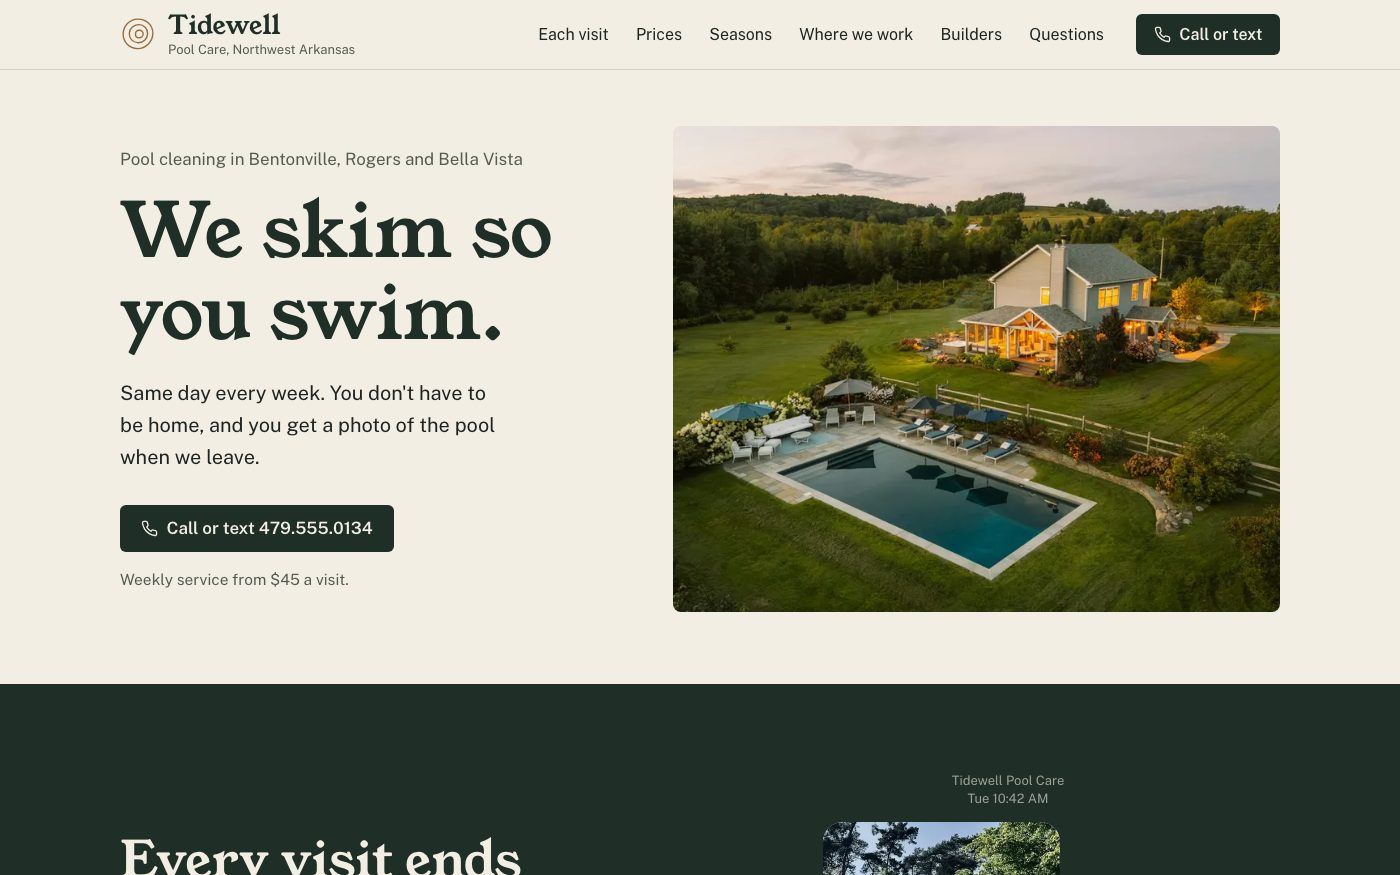
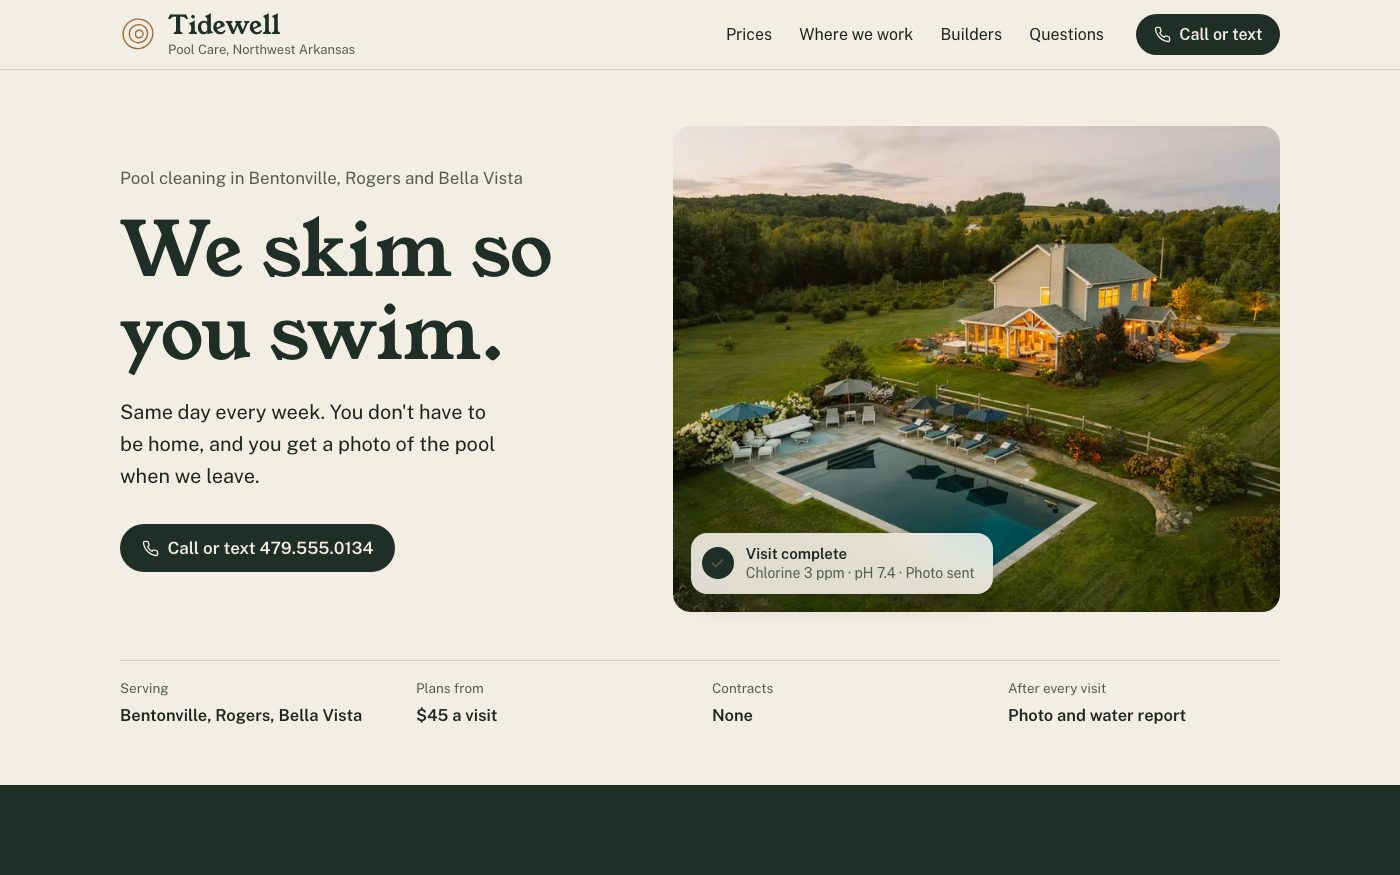
Tidewell demo refinements: facts row and status cards on photos, pill buttons, rounder corners, four nav links, shorter lists and seasons, one-line add-ons and towns; refresh thumbnail

diff --git a/demo/tidewell/index.html b/demo/tidewell/index.html
@@ -28,6 +28,7 @@
   --lake:#2D5E6A;
   --lake-soft:#9DBCC2;
   --line:rgba(30,36,31,.16);
+  --r:18px;
   --serif:'Young Serif',Georgia,'Times New Roman',serif;
   --sans:'Public Sans','Helvetica Neue',Arial,sans-serif;
 }
@@ -48,7 +49,7 @@ p,li,dd,td{text-wrap:pretty}
 
 .btn{
   display:inline-flex; align-items:center; justify-content:center; gap:.55rem;
-  padding:.85rem 1.3rem; border-radius:6px; background:var(--forest); color:var(--limestone);
+  padding:.85rem 1.35rem; border-radius:999px; background:var(--forest); color:var(--limestone);
   font-family:var(--sans); font-weight:600; font-size:17px; line-height:1.2; text-decoration:none;
   transition:background .2s ease;
 }
@@ -67,7 +68,7 @@ nav.main{display:flex; gap:1.7rem}
 nav.main a{font-size:16px; text-decoration:none; color:var(--ink); padding:.3rem 0}
 nav.main a:hover{text-decoration:underline; text-underline-offset:5px; text-decoration-color:var(--lake)}
 .bar .btn{padding:.7rem 1.1rem; font-size:16px}
-.navtoggle{display:none; width:46px; height:46px; padding:0; background:transparent; border:1px solid var(--line); border-radius:6px; cursor:pointer; flex:none; flex-direction:column; align-items:center; justify-content:center; gap:5px}
+.navtoggle{display:none; width:46px; height:46px; padding:0; background:transparent; border:1px solid var(--line); border-radius:999px; cursor:pointer; flex:none; flex-direction:column; align-items:center; justify-content:center; gap:5px}
 .navtoggle span{display:block; width:20px; height:2px; background:var(--forest); transition:transform .2s ease, opacity .2s ease}
 .navtoggle[aria-expanded="true"] span:nth-child(1){transform:translateY(7px) rotate(45deg)}
 .navtoggle[aria-expanded="true"] span:nth-child(2){opacity:0}
@@ -87,7 +88,7 @@ nav.main a:hover{text-decoration:underline; text-underline-offset:5px; text-deco
 .hero-cta{margin-top:2rem; display:flex; flex-wrap:wrap; align-items:center; gap:.9rem 1.4rem}
 .hero-cta small{font-size:15.5px; color:var(--muted)}
 .hero-photo{margin:0}
-.hero-photo img{width:100%; aspect-ratio:5/4; object-fit:cover; object-position:58% 62%; border-radius:8px}
+.hero-photo img{width:100%; aspect-ratio:5/4; object-fit:cover; object-position:58% 62%; border-radius:var(--r)}
 
 /* ---------- visit report ---------- */
 .visit{background:var(--forest); color:var(--limestone); padding:5.5rem 0}
@@ -109,7 +110,7 @@ nav.main a:hover{text-decoration:underline; text-underline-offset:5px; text-deco
 .prices-head{display:grid; grid-template-columns:1fr 1fr; gap:3rem; align-items:end; margin-bottom:2.5rem}
 .prices h2{font-size:clamp(2.2rem,4vw,3.2rem); color:var(--forest)}
 .prices-head p{color:var(--muted); max-width:44ch}
-.ratecard{background:var(--paper); border:1px solid var(--line); border-radius:8px; padding:.5rem 2rem 2rem}
+.ratecard{background:var(--paper); border:1px solid var(--line); border-radius:var(--r); padding:.5rem 2rem 2rem}
 .rates{width:100%; border-collapse:collapse}
 .rates th,.rates td{text-align:left; padding:1.15rem 1rem 1.15rem 0; border-bottom:1px solid var(--line); vertical-align:baseline}
 .rates thead th{font-size:14px; font-weight:600; color:var(--muted); padding-top:1.2rem; padding-bottom:.7rem}
@@ -128,7 +129,7 @@ nav.main a:hover{text-decoration:underline; text-underline-offset:5px; text-deco
 .year-grid{display:grid; grid-template-columns:.85fr 1.15fr; gap:4.5rem; align-items:start}
 .year h2{font-size:clamp(2.2rem,4vw,3.2rem); color:var(--forest); margin-bottom:1.1rem}
 .year figure{margin:2rem 0 0}
-.year figure img{width:100%; aspect-ratio:4/3; object-fit:cover; border-radius:8px}
+.year figure img{width:100%; aspect-ratio:4/3; object-fit:cover; border-radius:var(--r)}
 .year figcaption{font-size:15px; color:var(--muted); margin-top:.6rem}
 .seasons{list-style:none; margin:0; padding:0}
 .seasons li{display:grid; grid-template-columns:9.5rem 1fr; gap:1.5rem; padding:1.6rem 0; border-top:1px solid var(--line)}
@@ -140,7 +141,7 @@ nav.main a:hover{text-decoration:underline; text-underline-offset:5px; text-deco
 /* ---------- area ---------- */
 .area{padding:6rem 0}
 .area-grid{display:grid; grid-template-columns:1.05fr .95fr; gap:4.5rem; align-items:center}
-.map{background:var(--paper); border:1px solid var(--line); border-radius:8px; padding:1rem}
+.map{background:var(--paper); border:1px solid var(--line); border-radius:var(--r); padding:1rem}
 .map svg{display:block; width:100%; height:auto}
 .map text{font-family:var(--sans); paint-order:stroke; stroke:var(--paper); stroke-width:4px; stroke-linejoin:round}
 .area h2{font-size:clamp(2.2rem,4vw,3.2rem); color:var(--forest); margin-bottom:1.1rem}
@@ -151,7 +152,7 @@ nav.main a:hover{text-decoration:underline; text-underline-offset:5px; text-deco
 /* ---------- builders ---------- */
 .builders{background:var(--paper); border-block:1px solid var(--line); padding:6rem 0}
 .builders-grid{display:grid; grid-template-columns:1fr 1fr; gap:4.5rem; align-items:center}
-.builders img{width:100%; aspect-ratio:4/3; object-fit:cover; object-position:58% center; border-radius:8px}
+.builders img{width:100%; aspect-ratio:4/3; object-fit:cover; object-position:58% center; border-radius:var(--r)}
 .builders h2{font-size:clamp(2.2rem,4vw,3.2rem); color:var(--forest); margin-bottom:1.1rem}
 .builders .intro{color:var(--muted); max-width:44ch}
 .offers{margin:1.8rem 0 2rem; padding:0}
@@ -228,6 +229,32 @@ footer{background:#172219; color:rgba(243,238,228,.7); padding:2.4rem 0; font-si
   .foot b{display:block; margin:0 0 .2rem}
 }
 @media(max-width:420px){.brand-sub{display:none}}
+
+/* ---------- refinements ---------- */
+.float-card{position:absolute; left:18px; bottom:18px; display:flex; align-items:center; gap:12px; max-width:calc(100% - 36px);
+  padding:11px 18px 11px 11px; border-radius:16px; background:rgba(251,248,242,.86); color:var(--ink);
+  -webkit-backdrop-filter:blur(14px) saturate(1.2); backdrop-filter:blur(14px) saturate(1.2);
+  box-shadow:0 12px 30px -14px rgba(22,32,26,.5); font-size:14px; line-height:1.35}
+.float-card b{display:block; font-weight:600; font-size:15px}
+.float-card span{color:var(--muted)}
+.fc-icon{flex:none; width:32px; height:32px; border-radius:50%; background:var(--forest); color:var(--limestone); display:grid; place-items:center}
+.fc-icon svg{width:15px; height:15px}
+.hero-photo,.builders-photo{position:relative; margin:0}
+.hero{padding-bottom:3.5rem}
+.facts{display:grid; grid-template-columns:repeat(4,minmax(0,1fr)); gap:1.5rem; margin:3rem 0 0; padding-top:1.1rem; border-top:1px solid var(--line)}
+.facts dt{font-size:13.5px; color:var(--muted)}
+.facts dd{margin:.15rem 0 0; font-size:16.5px; font-weight:600; color:var(--ink)}
+.extras-line{margin-top:1.5rem; font-size:15.5px; color:var(--muted)}
+.extras-line b{color:var(--ink); font-weight:600}
+.area .towns{margin-top:1.4rem; font-size:17px; line-height:1.8; columns:auto}
+.towns-extra{margin-top:.5rem; font-size:15px; color:var(--muted)}
+@media(max-width:1000px){.facts{grid-template-columns:repeat(2,minmax(0,1fr)); gap:1.1rem 1.5rem}}
+@media(max-width:700px){
+  .facts{margin-top:2.2rem}
+  .float-card{left:10px; right:10px; bottom:10px; max-width:none; padding:9px 12px 9px 9px; font-size:13px}
+  .float-card b{font-size:14px}
+  .hero-photo .float-card{top:10px; bottom:auto}
+}
 @media(prefers-reduced-motion:reduce){*,*::before,*::after{transition-duration:.001ms !important}}
 </style>
 </head>
@@ -237,6 +264,8 @@ footer{background:#172219; color:rgba(243,238,228,.7); padding:2.4rem 0; font-si
   <defs>
     <symbol id="i-phone" viewBox="0 0 24 24" fill="none" stroke="currentColor" stroke-width="1.9" stroke-linecap="round" stroke-linejoin="round"><path d="M22 16.9v3a2 2 0 0 1-2.2 2 19.8 19.8 0 0 1-8.6-3.1 19.5 19.5 0 0 1-6-6A19.8 19.8 0 0 1 2.1 4.2 2 2 0 0 1 4.1 2h3a2 2 0 0 1 2 1.7c.1 1 .4 1.9.7 2.8a2 2 0 0 1-.5 2.1L8.1 9.9a16 16 0 0 0 6 6l1.3-1.3a2 2 0 0 1 2.1-.4c.9.3 1.8.6 2.8.7a2 2 0 0 1 1.7 2z"/></symbol>
     <symbol id="i-mark" viewBox="0 0 40 40" fill="none" stroke="currentColor" stroke-width="1.5"><path d="M19.6 3.4c9.3-.3 17.1 6.8 16.9 16.1-.2 9.2-7.9 16.9-17.1 16.7C10.3 36 3.3 28.9 3.5 19.8 3.7 10.8 10.7 3.7 19.6 3.4z"/><path d="M20.6 9.6c5.9-.2 10.3 4.3 10.1 10-.2 5.8-5 10.3-10.8 10.1-5.6-.2-9.8-4.8-9.6-10.3.2-5.3 4.8-9.6 10.3-9.8z"/><path d="M21.4 15.8c2.6-.1 4.4 1.9 4.3 4.3-.1 2.4-2.1 4.2-4.6 4.1-2.3-.1-4-2-3.9-4.3.1-2.2 2-4 4.2-4.1z"/></symbol>
+    <symbol id="i-check" viewBox="0 0 24 24" fill="none" stroke="currentColor" stroke-width="2.6" stroke-linecap="round" stroke-linejoin="round"><polyline points="20 6 9 17 4 12"/></symbol>
+    <symbol id="i-drop" viewBox="0 0 24 24" fill="none" stroke="currentColor" stroke-width="2" stroke-linecap="round" stroke-linejoin="round"><path d="M12 3c3.5 4.4 6.5 7.9 6.5 11.4a6.5 6.5 0 0 1-13 0C5.5 10.9 8.5 7.4 12 3z"/></symbol>
   </defs>
 </svg>
 
@@ -244,9 +273,7 @@ footer{background:#172219; color:rgba(243,238,228,.7); padding:2.4rem 0; font-si
   <div class="wrap bar">
     <a class="brand" href="#top"><svg class="brand-logo" aria-hidden="true" focusable="false"><use href="#i-mark"/></svg><span class="brand-text"><b>Tidewell</b><span class="brand-sub">Pool Care, Northwest Arkansas</span></span></a>
     <nav class="main" aria-label="Main">
-      <a href="#visit">Each visit</a>
       <a href="#prices">Prices</a>
-      <a href="#year">Seasons</a>
       <a href="#area">Where we work</a>
       <a href="#builders">Builders</a>
       <a href="#faq">Questions</a>
@@ -256,9 +283,7 @@ footer{background:#172219; color:rgba(243,238,228,.7); padding:2.4rem 0; font-si
   </div>
   <nav class="mobile-nav" id="mobileNav" aria-label="Menu" hidden>
     <div class="wrap">
-      <a href="#visit">Each visit</a>
       <a href="#prices">Prices</a>
-      <a href="#year">Seasons</a>
       <a href="#area">Where we work</a>
       <a href="#builders">Builders</a>
       <a href="#faq">Questions</a>
@@ -276,12 +301,20 @@ footer{background:#172219; color:rgba(243,238,228,.7); padding:2.4rem 0; font-si
       <p class="hero-lede">Same day every week. You don't have to be home, and you get a photo of the pool when we&nbsp;leave.</p>
       <div class="hero-cta">
         <a class="btn" href="tel:+14795550134"><svg aria-hidden="true"><use href="#i-phone"/></svg>Call or text 479.555.0134</a>
-        <small>Weekly service from $45 a&nbsp;visit.</small>
       </div>
     </div>
     <figure class="hero-photo">
       <img src="img/hero-farmhouse-pool-1400.webp" srcset="img/hero-farmhouse-pool-900.webp 900w, img/hero-farmhouse-pool-1400.webp 1400w, img/hero-farmhouse-pool-2400.webp 2400w" sizes="(max-width:1000px) calc(100vw - 40px), 56vw" alt="A backyard pool with stone coping and a split-rail fence, below a farmhouse and wooded hills at dusk" width="1400" height="934" fetchpriority="high" decoding="async">
+      <div class="float-card" aria-hidden="true"><span class="fc-icon"><svg><use href="#i-check"/></svg></span><div><b>Visit complete</b><span>Chlorine 3 ppm · pH 7.4 · Photo sent</span></div></div>
     </figure>
+  </div>
+  <div class="wrap">
+    <dl class="facts">
+      <div><dt>Serving</dt><dd>Bentonville, Rogers, Bella&nbsp;Vista</dd></div>
+      <div><dt>Plans from</dt><dd>$45 a visit</dd></div>
+      <div><dt>Contracts</dt><dd>None</dd></div>
+      <div><dt>After every visit</dt><dd>Photo and water report</dd></div>
+    </dl>
   </div>
 </section>
 
@@ -292,21 +325,17 @@ footer{background:#172219; color:rgba(243,238,228,.7); padding:2.4rem 0; font-si
       <h2>Every visit ends with a&nbsp;text.</h2>
       <p class="intro">You'll know what we did and what the water tested at, without having to walk out and&nbsp;check.</p>
       <ul class="tasks">
-        <li>Skim the surface</li>
-        <li>Brush walls and steps</li>
-        <li>Vacuum the floor</li>
-        <li>Test chlorine, pH and alkalinity</li>
-        <li>Add what the test calls for</li>
-        <li>Empty skimmer and pump baskets</li>
-        <li>Check filter pressure</li>
-        <li>Latch the gate on the way out</li>
+        <li>Skim, brush and vacuum the whole pool</li>
+        <li>Test and balance the water</li>
+        <li>Empty the baskets and check the equipment</li>
+        <li>Latch the gate and text you a photo</li>
       </ul>
     </div>
     <div class="thread" role="img" aria-label="An example text message from Tidewell after a visit, with a photo of the clean pool and the water test results">
       <p class="thread-head">Tidewell Pool Care<br>Tue 10:42 AM</p>
       <div class="bubble photo"><img src="img/visit-pool-360.webp" srcset="img/visit-pool-360.webp 360w, img/visit-pool-560.webp 560w" sizes="240px" alt="" width="360" height="517" loading="lazy" decoding="async"></div>
       <p class="bubble">All done. Chlorine 3 ppm, pH 7.4, alkalinity 90.</p>
-      <p class="bubble">Baskets emptied, filter pressure normal. Lot of pine needles in the skimmer this week. Gate's latched.</p>
+      <p class="bubble">Lot of pine needles in the skimmer this week. Gate's latched.</p>
       <p class="thread-meta">Delivered</p>
     </div>
   </div>
@@ -328,12 +357,7 @@ footer{background:#172219; color:rgba(243,238,228,.7); padding:2.4rem 0; font-si
           <tr><th scope="row">Monthly</th><td class="price">$95</td><td>Keeping an eye on things in the off-season</td></tr>
         </tbody>
       </table>
-      <dl class="extras">
-        <div><dt>Spa or hot tub</dt><dd>Add $15 a visit.</dd></div>
-        <div><dt>First clean</dt><dd>From $150, only if the pool needs catching up before regular service.</dd></div>
-        <div><dt>Green-to-clean</dt><dd>$150, $250 or $400+, depending on how green it is, how big, and how much is in&nbsp;it.</dd></div>
-        <div><dt>Openings and closings</dt><dd>Priced by pool size. Call or text for a&nbsp;quote.</dd></div>
-      </dl>
+      <p class="extras-line"><b>Also:</b> spa or hot tub, add $15 a visit. First clean from $150 if needed. Green-to-clean $150, $250 or $400+. Openings and closings priced by pool&nbsp;size.</p>
       <div class="ratecard-foot">
         <p>Not sure which plan fits? Text us a photo and we'll tell&nbsp;you.</p>
         <a class="btn" href="tel:+14795550134"><svg aria-hidden="true"><use href="#i-phone"/></svg>Call or text 479.555.0134</a>
@@ -354,10 +378,10 @@ footer{background:#172219; color:rgba(243,238,228,.7); padding:2.4rem 0; font-si
       </figure>
     </div>
     <ol class="seasons">
-      <li><p class="when">March and April</p><div><h3>Opening</h3><p>Cover off, water topped up, pump and filter started, and the water balanced before the first warm weekend. April's tree pollen leaves a yellow film, so we clean filters more&nbsp;often.</p></div></li>
-      <li><p class="when">May to September</p><div><h3>Swim season</h3><p>Heat and afternoon thunderstorms use up chlorine fast. This is when a weekly visit matters most, and when a missed week turns a pool&nbsp;cloudy.</p></div></li>
-      <li><p class="when">October and November</p><div><h3>Leaves</h3><p>Oak and hickory drop by the bagful. We net them before they sink, empty the baskets more often, and close pools for the winter when you're&nbsp;ready.</p></div></li>
-      <li><p class="when">December to February</p><div><h3>Covered</h3><p>Most pools here sit closed under a cover. We check on them after hard freezes and ice storms, and keep monthly service going for spas and heated&nbsp;pools.</p></div></li>
+      <li><p class="when">March and April</p><div><h3>Opening</h3><p>Cover off, equipment started, and the water balanced before the first warm weekend. We clean filters more often through April's&nbsp;pollen.</p></div></li>
+      <li><p class="when">May to September</p><div><h3>Swim season</h3><p>Heat and afternoon storms burn through chlorine. This is when a weekly visit matters&nbsp;most.</p></div></li>
+      <li><p class="when">October and November</p><div><h3>Leaves</h3><p>Oak and hickory drop by the bagful. We net them before they sink, then close the pool when you're&nbsp;ready.</p></div></li>
+      <li><p class="when">December to February</p><div><h3>Covered</h3><p>We check covered pools after hard freezes, and keep monthly care going for spas and heated&nbsp;pools.</p></div></li>
     </ol>
   </div>
 </section>
@@ -398,10 +422,8 @@ footer{background:#172219; color:rgba(243,238,228,.7); padding:2.4rem 0; font-si
     <div>
       <h2>Where we work</h2>
       <p class="muted">Our route runs along I-49 from Bella Vista down to Lowell. Keeping it tight means we're on time, and it's why we can come the same day every&nbsp;week.</p>
-      <ul class="towns">
-        <li>Bella Vista</li><li>Bentonville</li><li>Rogers</li><li>Centerton</li><li>Pea Ridge</li><li>Cave Springs</li><li>Lowell</li>
-        <li class="by-request">Springdale, by request</li><li class="by-request">Fayetteville, by request</li>
-      </ul>
+      <p class="towns">Bella&nbsp;Vista&nbsp;· Bentonville&nbsp;· Rogers&nbsp;· Centerton&nbsp;· Pea&nbsp;Ridge&nbsp;· Cave&nbsp;Springs&nbsp;· Lowell</p>
+      <p class="towns-extra">Springdale and Fayetteville by request.</p>
     </div>
   </div>
 </section>
@@ -409,7 +431,10 @@ footer{background:#172219; color:rgba(243,238,228,.7); padding:2.4rem 0; font-si
 <!-- ============ BUILDERS ============ -->
 <section class="builders" id="builders">
   <div class="wrap builders-grid">
-    <img src="img/builder-stone-home-1400.webp" srcset="img/builder-stone-home-800.webp 800w, img/builder-stone-home-1400.webp 1400w" sizes="(max-width:1000px) calc(100vw - 40px), 48vw" alt="A newly built stone and stucco home with fresh landscaping at sunset" width="1400" height="932" loading="lazy" decoding="async">
+    <figure class="builders-photo">
+      <img src="img/builder-stone-home-1400.webp" srcset="img/builder-stone-home-800.webp 800w, img/builder-stone-home-1400.webp 1400w" sizes="(max-width:1000px) calc(100vw - 40px), 48vw" alt="A newly built stone and stucco home with fresh landscaping at sunset" width="1400" height="932" loading="lazy" decoding="async">
+      <div class="float-card" aria-hidden="true"><span class="fc-icon"><svg><use href="#i-drop"/></svg></span><div><b>Plaster start-up</b><span>Week 2 of 4 · Balanced today</span></div></div>
+    </figure>
     <div>
       <h2>For builders and developers</h2>
       <p class="intro">A new pool needs looking after from the day it's filled, often weeks before anyone moves in. We work with builders, developers and listing agents across Benton&nbsp;County.</p>
@@ -431,11 +456,9 @@ footer{background:#172219; color:rgba(243,238,228,.7); padding:2.4rem 0; font-si
       <div><dt>Do I need to be home?</dt><dd>No. We just need to be able to reach the pool. We text you when we're done.</dd></div>
       <div><dt>What if the gate is locked?</dt><dd>Give us the code, or tell us where the key is. We latch the gate behind us every time.</dd></div>
       <div><dt>Can we swim right after you leave?</dt><dd>Give the water about 30 minutes after we balance it, then jump&nbsp;in.</dd></div>
-      <div><dt>What chemicals do you use?</dt><dd>Standard pool chlorine, acid and balancers, dosed to that day's water test. Nothing you couldn't buy at a pool&nbsp;store.</dd></div>
       <div><dt>What if it storms?</dt><dd>Rain doesn't stop us. Lightning does, and we'll come back the next day. You're never charged for a visit we&nbsp;missed.</dd></div>
       <div><dt>Do you open and close pools?</dt><dd>Yes. Openings run March and April, closings October and November. Both are priced by pool&nbsp;size.</dd></div>
       <div><dt>Do you service hot tubs?</dt><dd>Yes, alongside the pool for $15 a visit, or on their own through the&nbsp;winter.</dd></div>
-      <div><dt>Do you work with home builders?</dt><dd>Yes. See the builders section above, or call about builder&nbsp;rates.</dd></div>
     </dl>
   </div>
 </section>

diff --git a/index.html b/index.html
@@ -158,7 +158,7 @@
           <span class="sp-dot"></span><span class="sp-dot"></span><span class="sp-dot"></span>
         </div>
         <div class="sp-stage">
-          <img class="sp-shot" src="images/demo-tidewell-desktop.jpg?v=4" alt="Tidewell Pool Care website home page" width="1400" height="875" loading="lazy" decoding="async">
+          <img class="sp-shot" src="images/demo-tidewell-desktop.jpg?v=5" alt="Tidewell Pool Care website home page" width="1400" height="875" loading="lazy" decoding="async">
           <button type="button" class="sp-open" aria-label="Explore the Tidewell website live"></button>
         </div>
       </figure>
